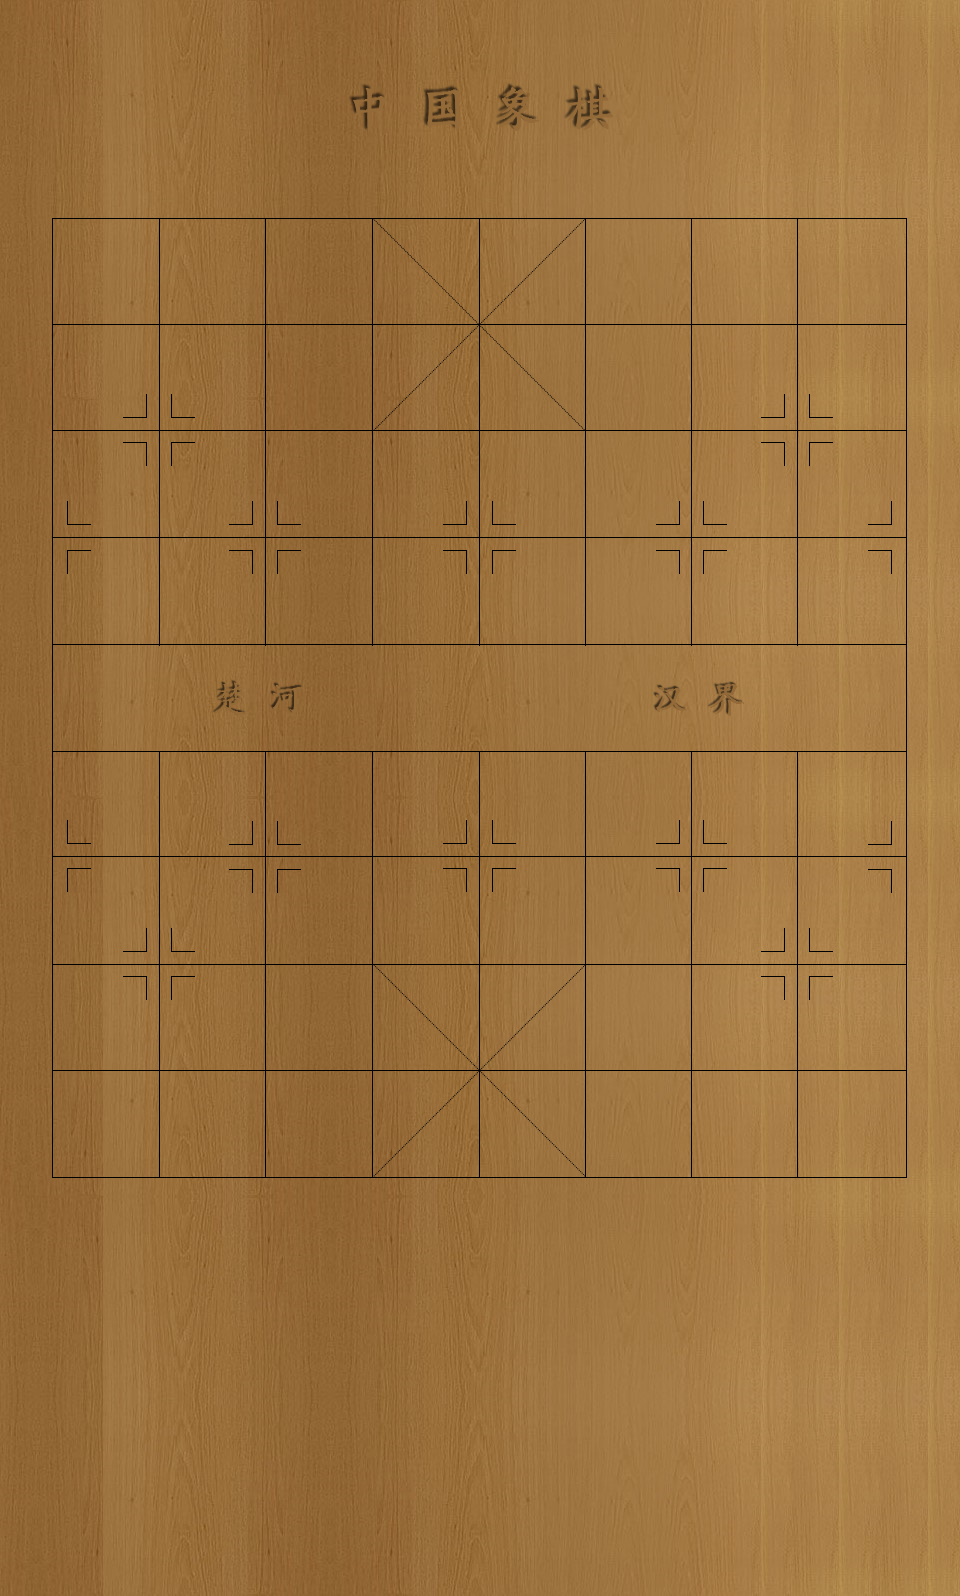
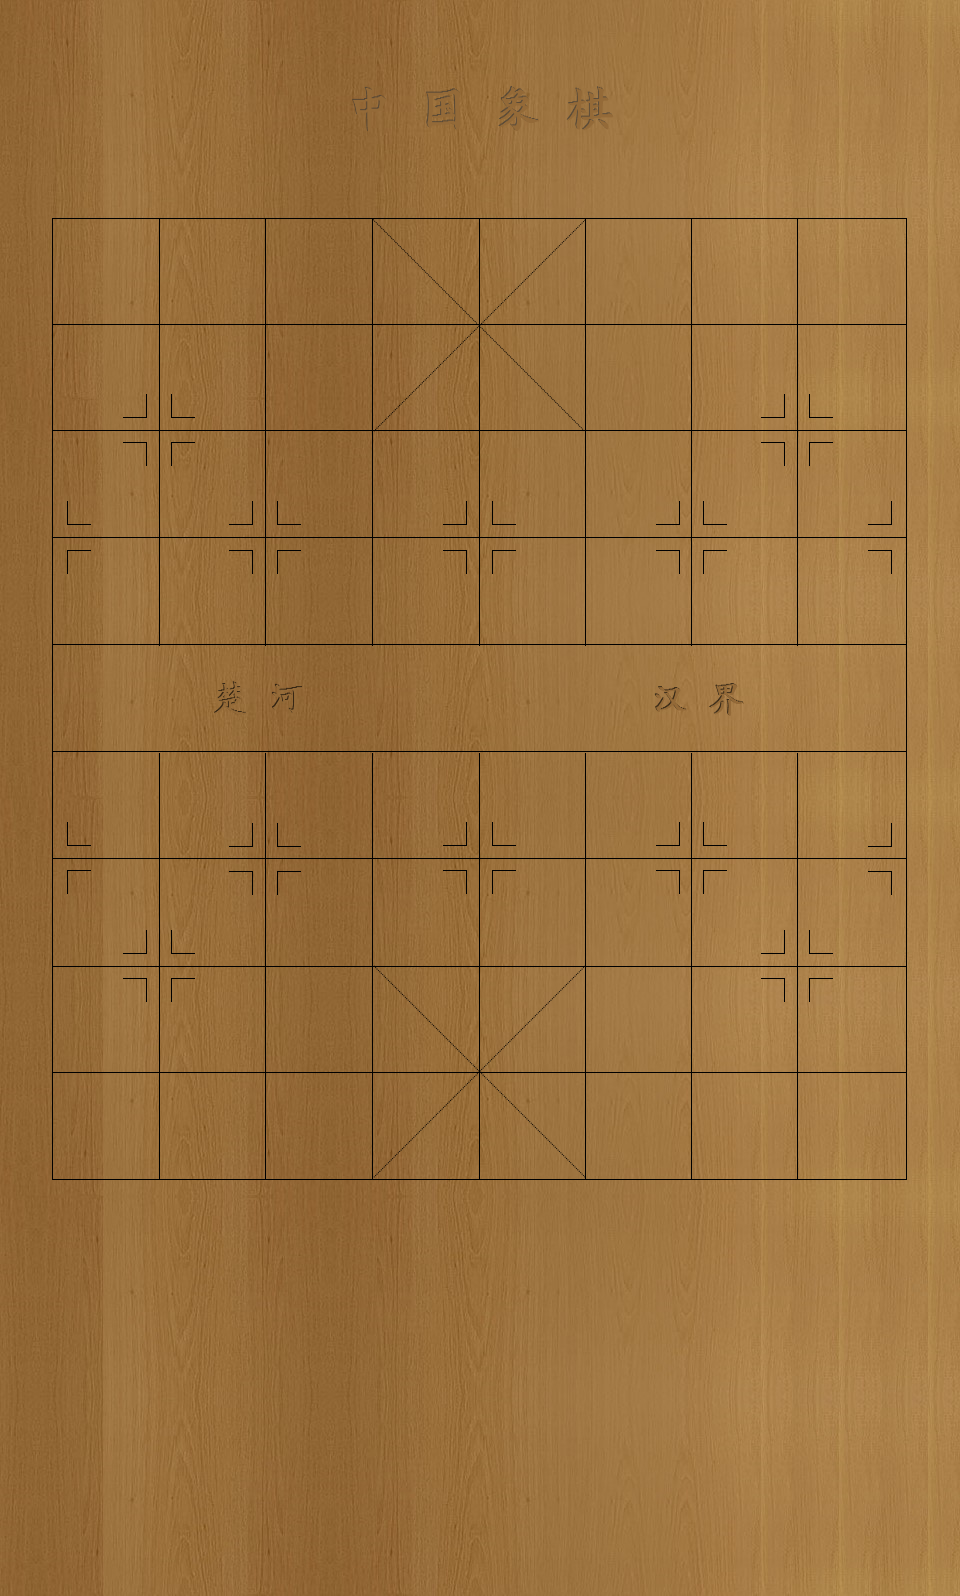
更新背景

diff --git a/mans.html b/mans.html
@@ -6,7 +6,7 @@
 </head>
 <body>
 
-<canvas id="myCanvas" width="20" height="20" >GAME OVER!</canvas>
+<canvas id="myCanvas" width="48" height="48">GAME OVER!</canvas>
 
 <script>
     var ctx;
@@ -14,23 +14,30 @@
 
     function init(){
         img_bg = new Image();
-        img_bg.src = "./img/z_p.png";
+        img_bg.src = "./img/1.jpg";
         var canvas = document.getElementById('myCanvas');
         if (!canvas.getContext) return;
         ctx = canvas.getContext("2d");
         img_bg.onload = function () {
             draw();
         };
-
         ctx.beginPath();
-        ctx.rotate(-45*Math.PI/180);
-        ctx.rect(-7.5,7.5,14.1,14.1);
+        ctx.rect(0, 8,48,32);
         ctx.clip();
+
+        ctx.fillStyle = "#9d9d9d";
+        ctx.fillRect(0,0,48,48);
+
+        ctx.font="20px Arial bold";
+        ctx.fillStyle = "#F3F3F3";
+        ctx.fillText("BaiaI",1,31);
+
+
     }
     init();
 
     function draw(){
-        ctx.drawImage(img_bg, -11, 5);
+        ctx.drawImage(img_bg, 0, 0);
     }
 
 </script>
